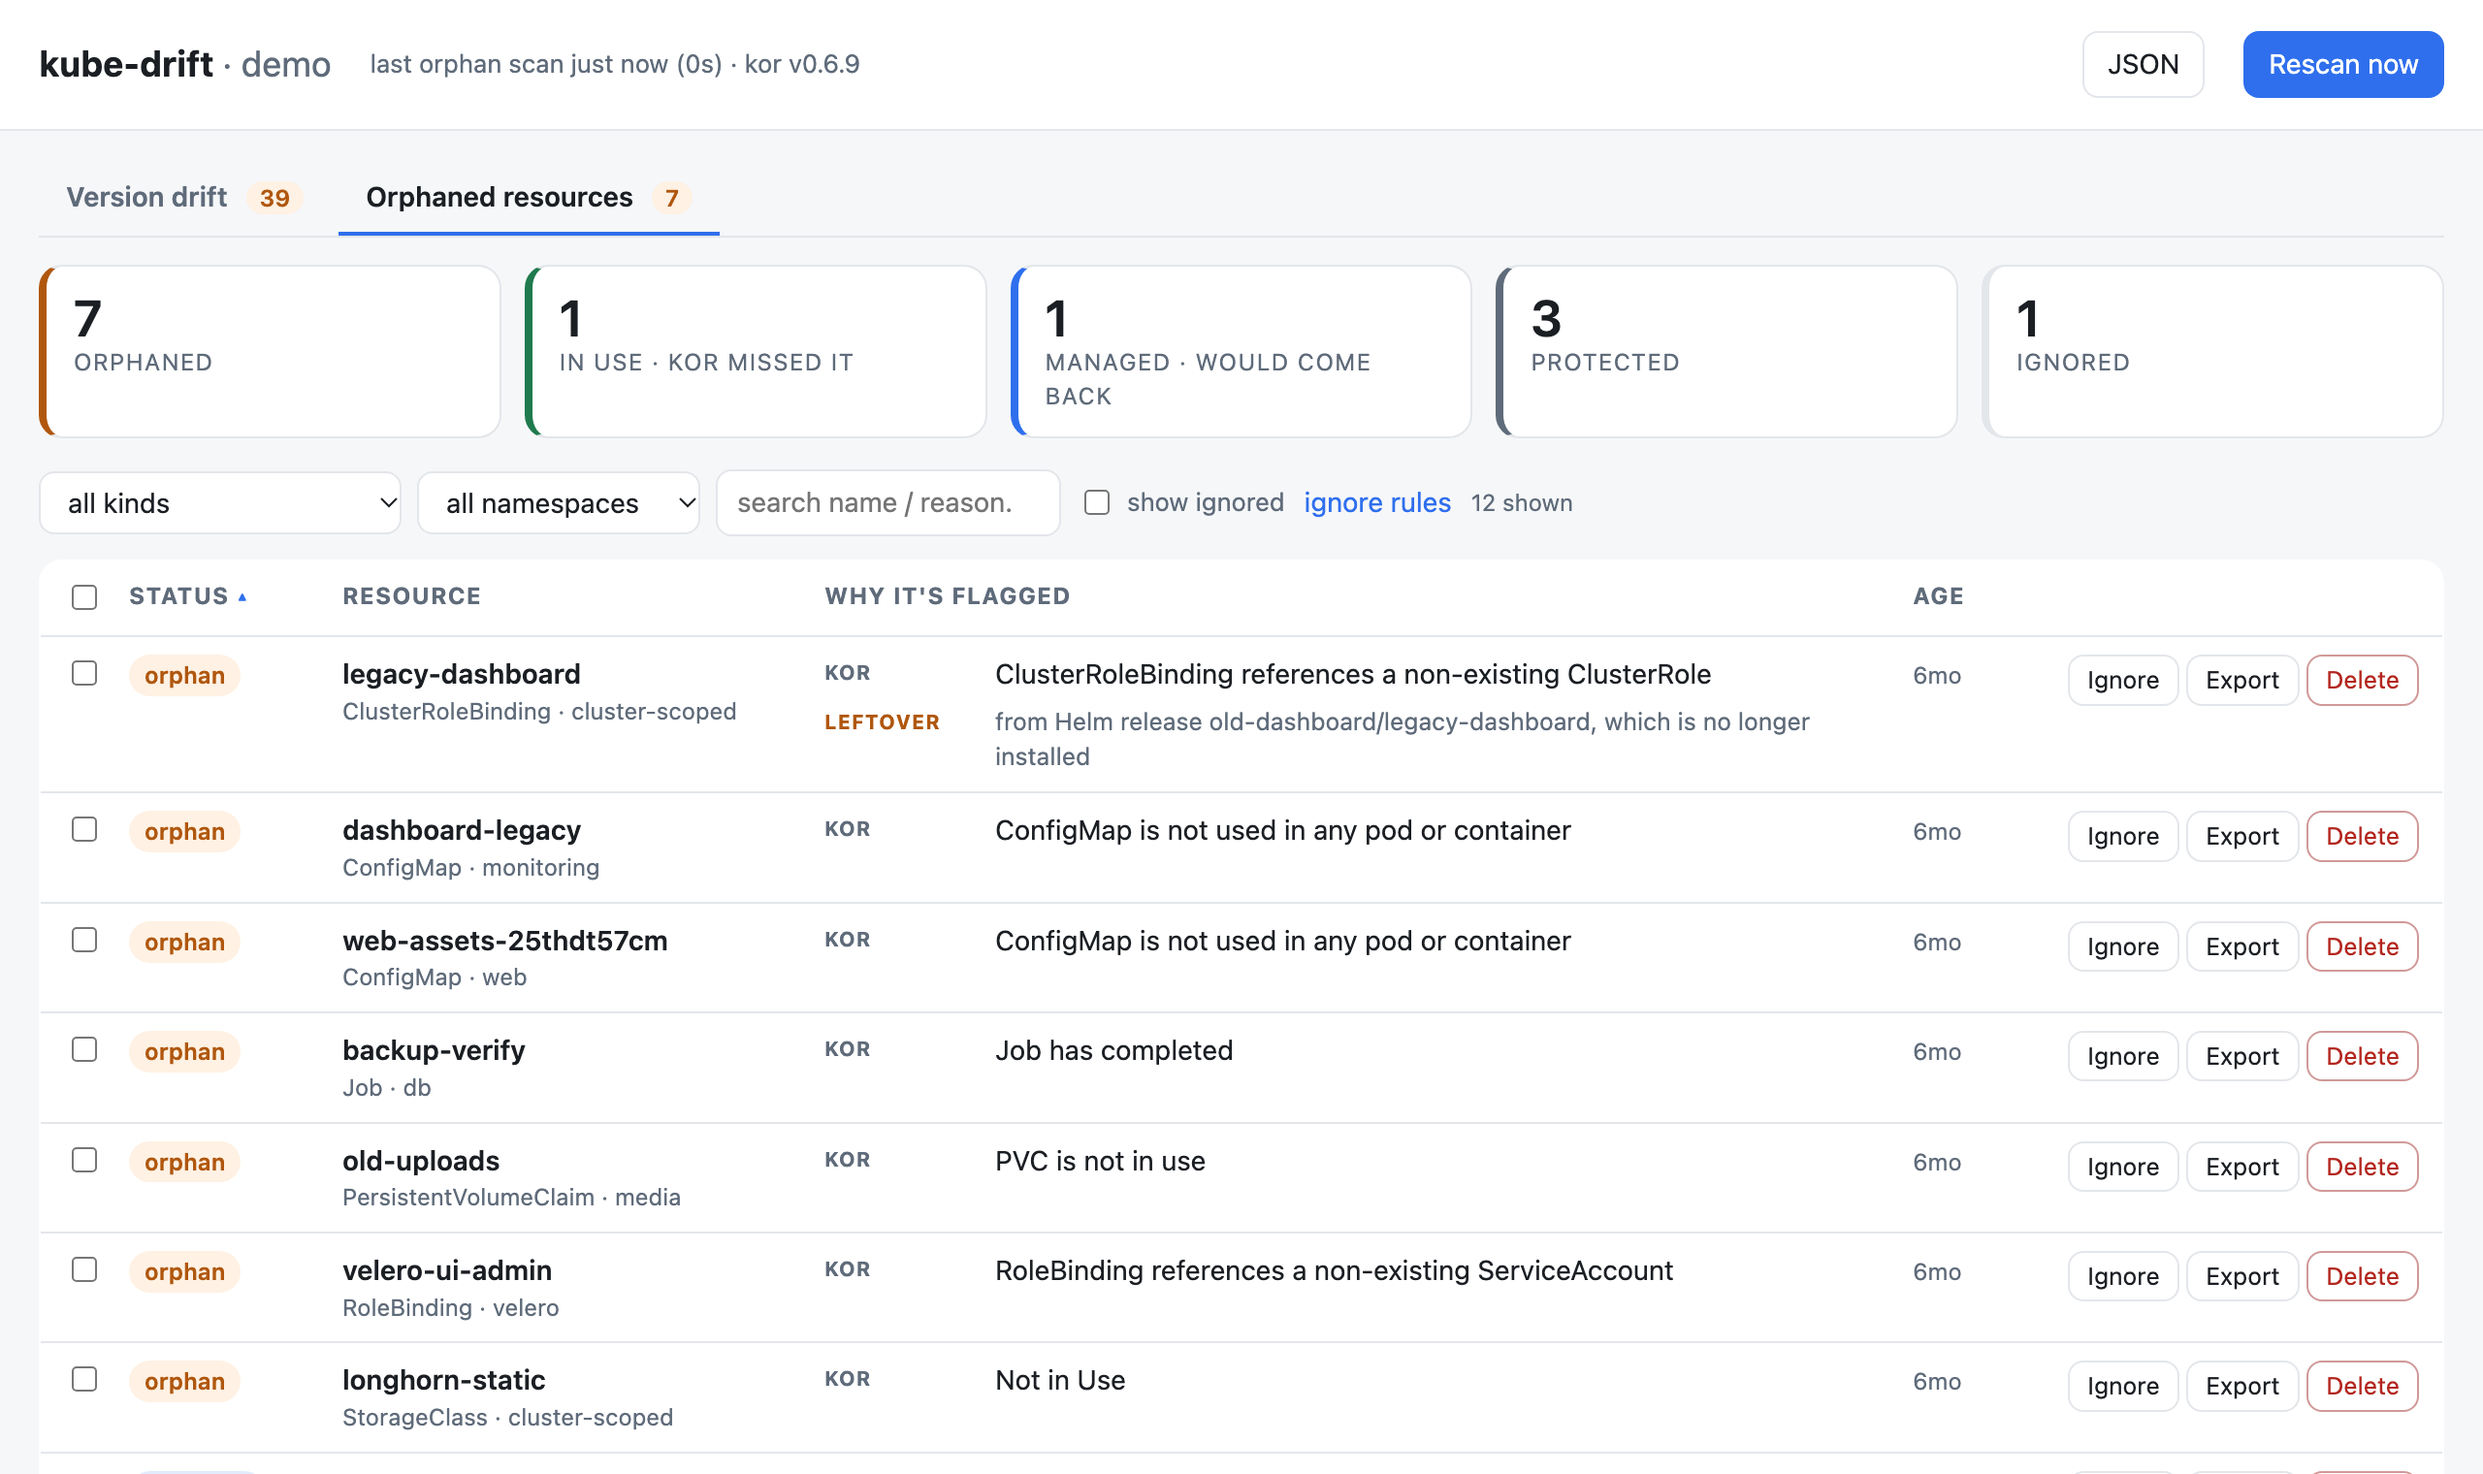
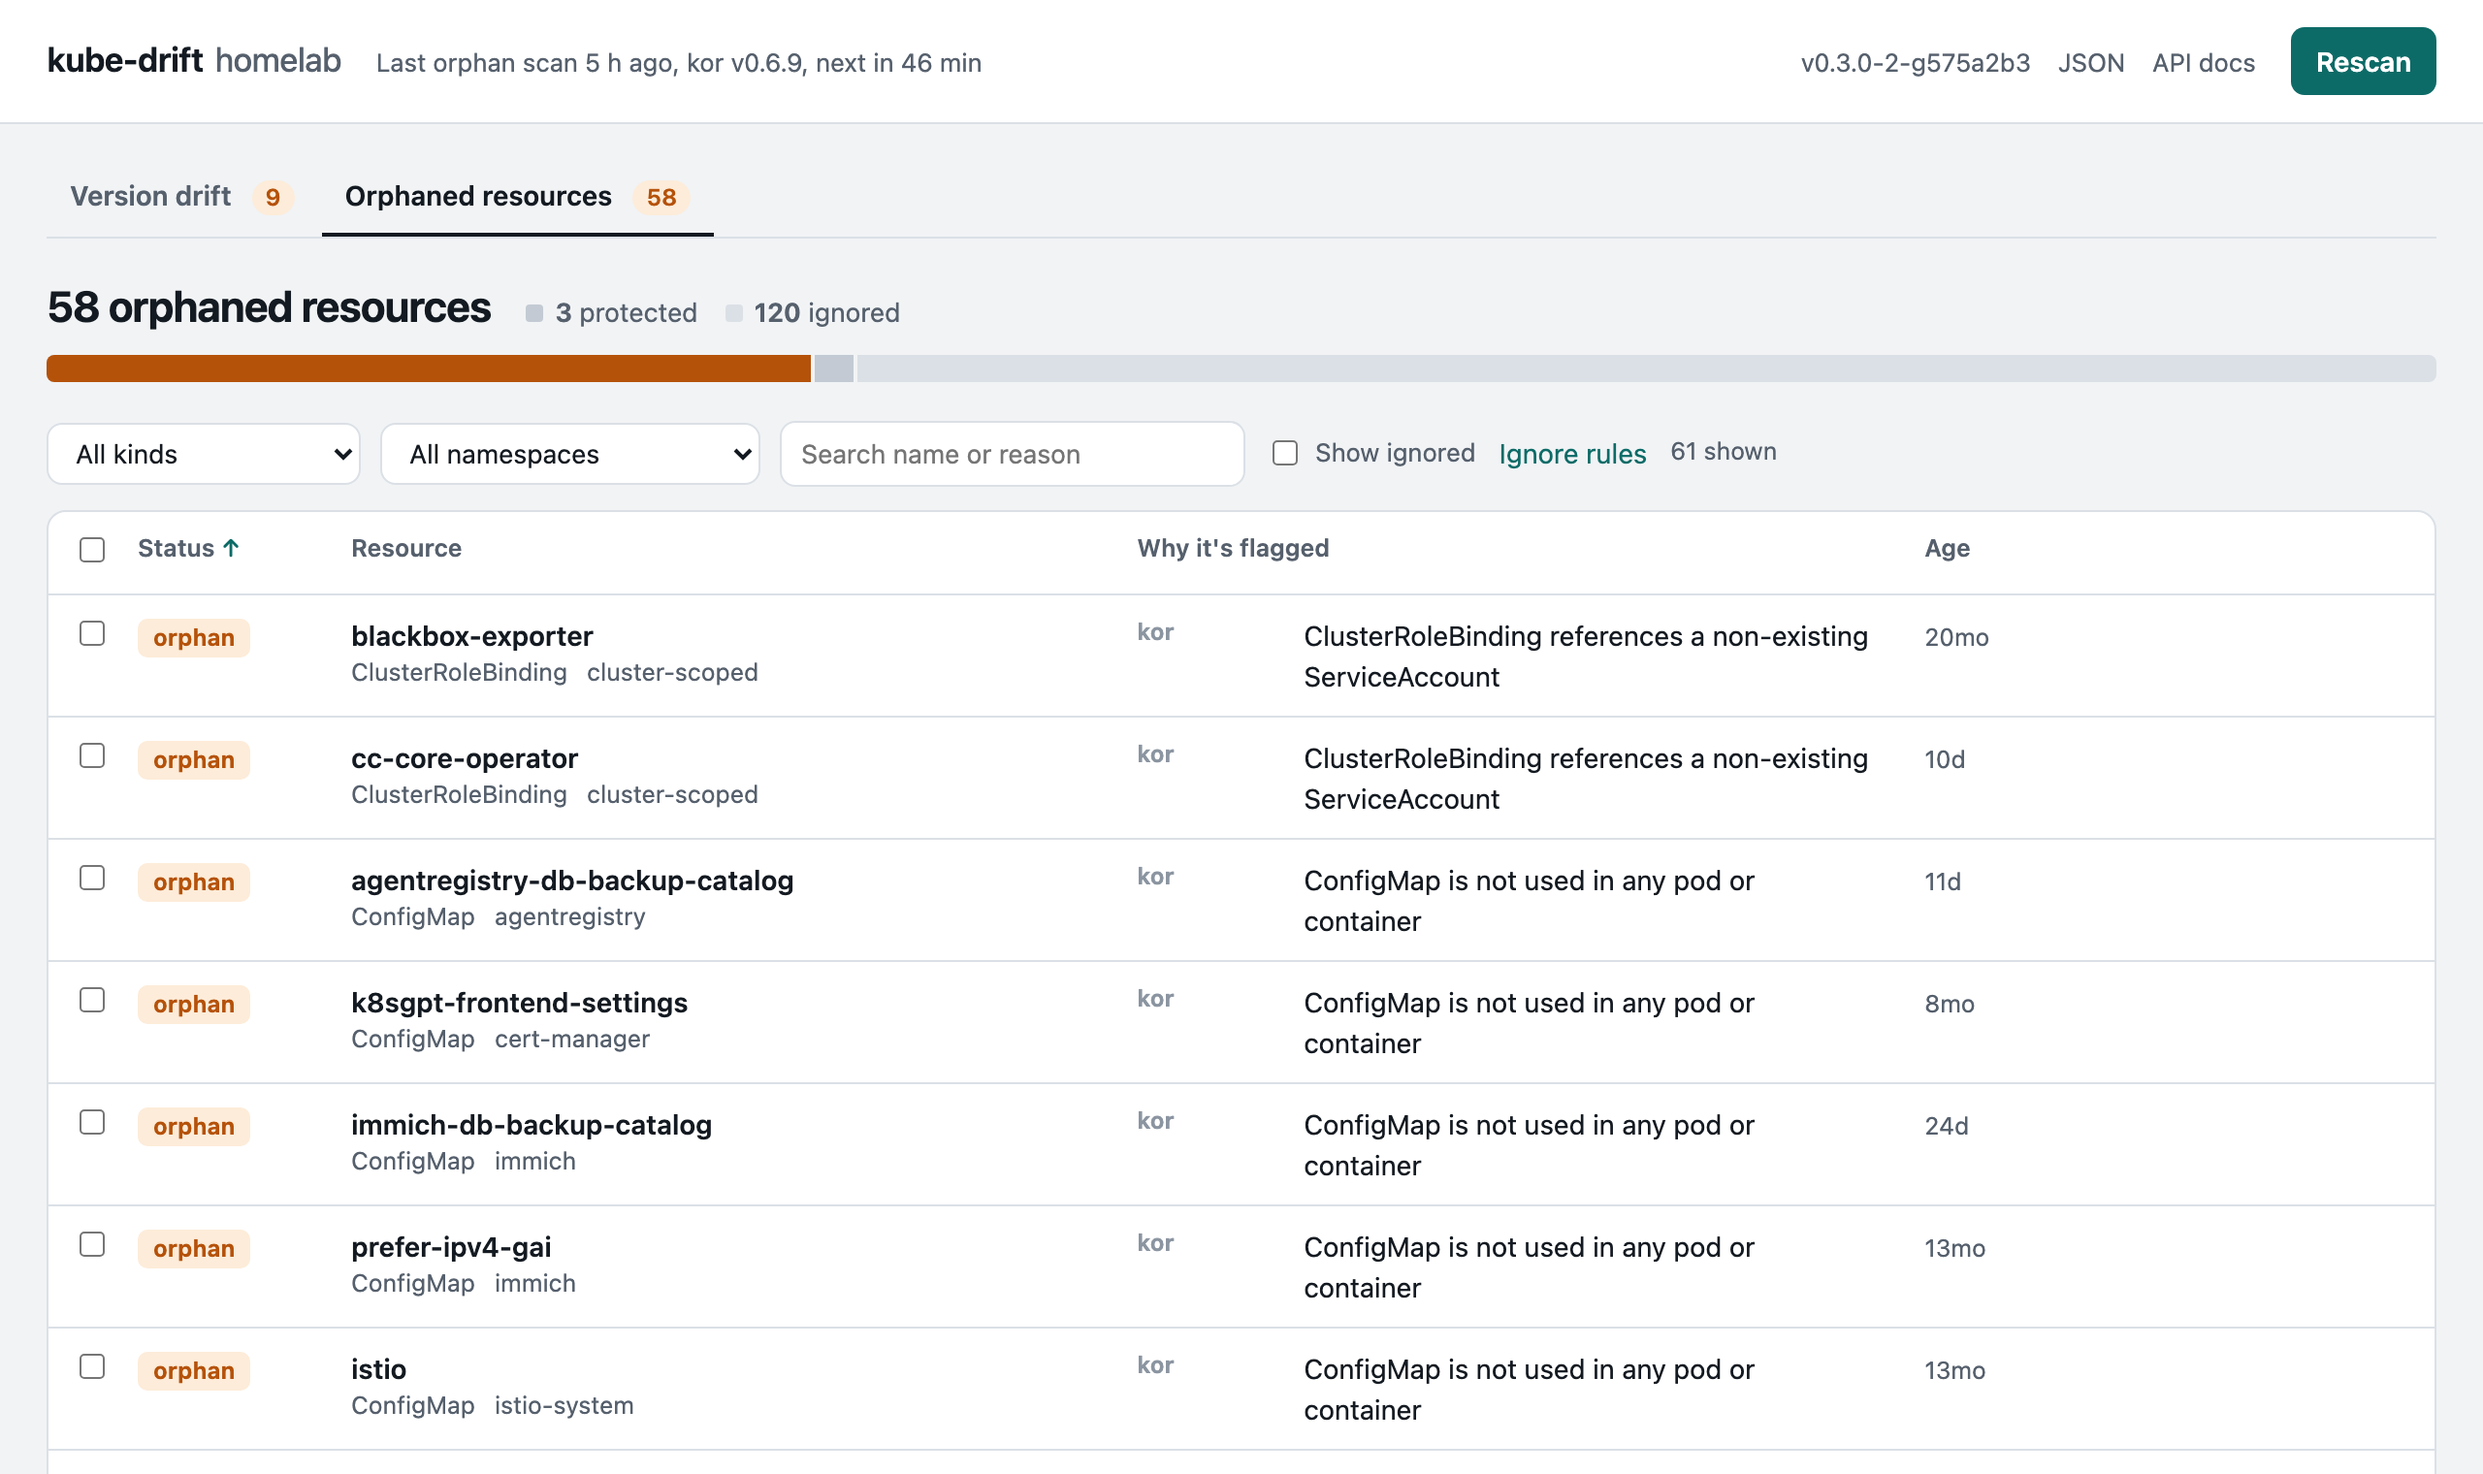
Refresh the README screenshots from the current dashboard, with dark-mode versions

diff --git a/README.md b/README.md
@@ -16,8 +16,14 @@ Cleanup is a kubectl script it writes for you to review and run.
 > inventory and change its ignore list. Never expose it directly: use `kubectl port-forward`, or
 > put it behind a gateway that authenticates every request. See [Exposing it](#exposing-it).
 
-![Version drift](docs/versions.png)
-![Orphaned resources](docs/orphans.png)
+<picture>
+  <source media="(prefers-color-scheme: dark)" srcset="docs/versions-dark.png">
+  <img alt="Version drift: every component against its latest upstream release" src="docs/versions.png">
+</picture>
+<picture>
+  <source media="(prefers-color-scheme: dark)" srcset="docs/orphans-dark.png">
+  <img alt="Orphaned resources found by kor, with why each is flagged" src="docs/orphans.png">
+</picture>
 
 ## Quick start
 
